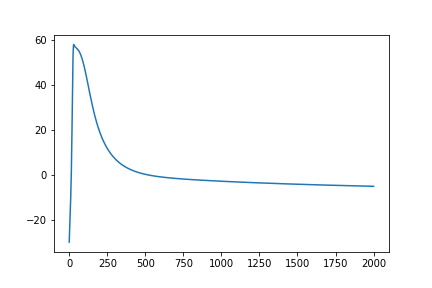
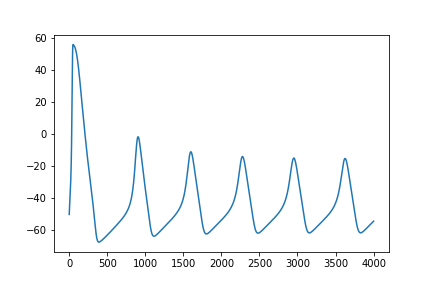
式改良

diff --git a/ホジキン-ハクスレイ.py b/ホジキン-ハクスレイ.py
@@ -1,6 +1,11 @@
 import numpy as np
 import matplotlib.pyplot as plt
 
+'''
+Hudgkin-Huxley方程式を元に実装
+http://www.hi.is.uec.ac.jp/rcb/paper/PDF/H18_wada.pdf
+数値は上記のサイトから引用
+'''
 class Neuron:
     C=1
     gNa=120
@@ -23,13 +28,18 @@ class Neuron:
         self.V=V0
 
     def calc(self,I):
+        alp_m=0.1*(40+self.V)/(1-np.exp(-(40+self.V)/10))
+        beta_m=4*np.exp(-(self.V+65)/18)
+        alp_h=0.07*np.exp(-(self.V+65)/20)
+        beta_h=1/(1+np.exp(-(self.V+35)/10))
+        
         m_next=(0.1*(40+self.V)/(1-np.exp(-(40+self.V)/10))*(1-self.m)-4*np.exp(-1*(self.V+65)/18)*self.m)*self.delta_t+self.m
-        h_next=(0.07*np.exp(-1*(self.V+65)/20)*(1-self.h)-1/(np.exp((35-self.V)/10)+1)*self.h)*self.delta_t+self.h
+        h_next=(0.07*np.exp(-1*(self.V+65)/20)*(1-self.h)-1/(np.exp((-35-self.V)/10)+1)*self.h)*self.delta_t+self.h
         n_next=(0.01*(55+self.V)/(1-np.exp(-1*(55+self.V)/10))*(1-self.n)-0.125*np.exp(-1*(self.V+65)/80)*self.n)*self.delta_t+self.n
         self.INa=self.gNa*(self.m**3)*self.h*(self.V-self.ENa)
         self.Ik=self.gk*(self.n**4)*(self.V-self.Ek)
         self.IL=self.gL*(self.V-self.EL)
-        V_next=(-1*(self.INa+self.Ik+self.IL)/self.C+I)*self.delta_t+self.V
+        V_next=((-1*(self.INa+self.Ik+self.IL)+I)/self.C)*self.delta_t+self.V
         self.m=m_next
         self.h=h_next
         self.n=n_next
@@ -49,9 +59,9 @@ class Neuron:
 #シミュレート設定
 #tは時間、Iは電流値[mA]
 
-t = 2000
-I = 200
-Nu=Neuron(-30)
+t = 4000
+I = 100
+Nu=Neuron(-50)
 
 x = np.linspace(0,t,t)
 y= []
